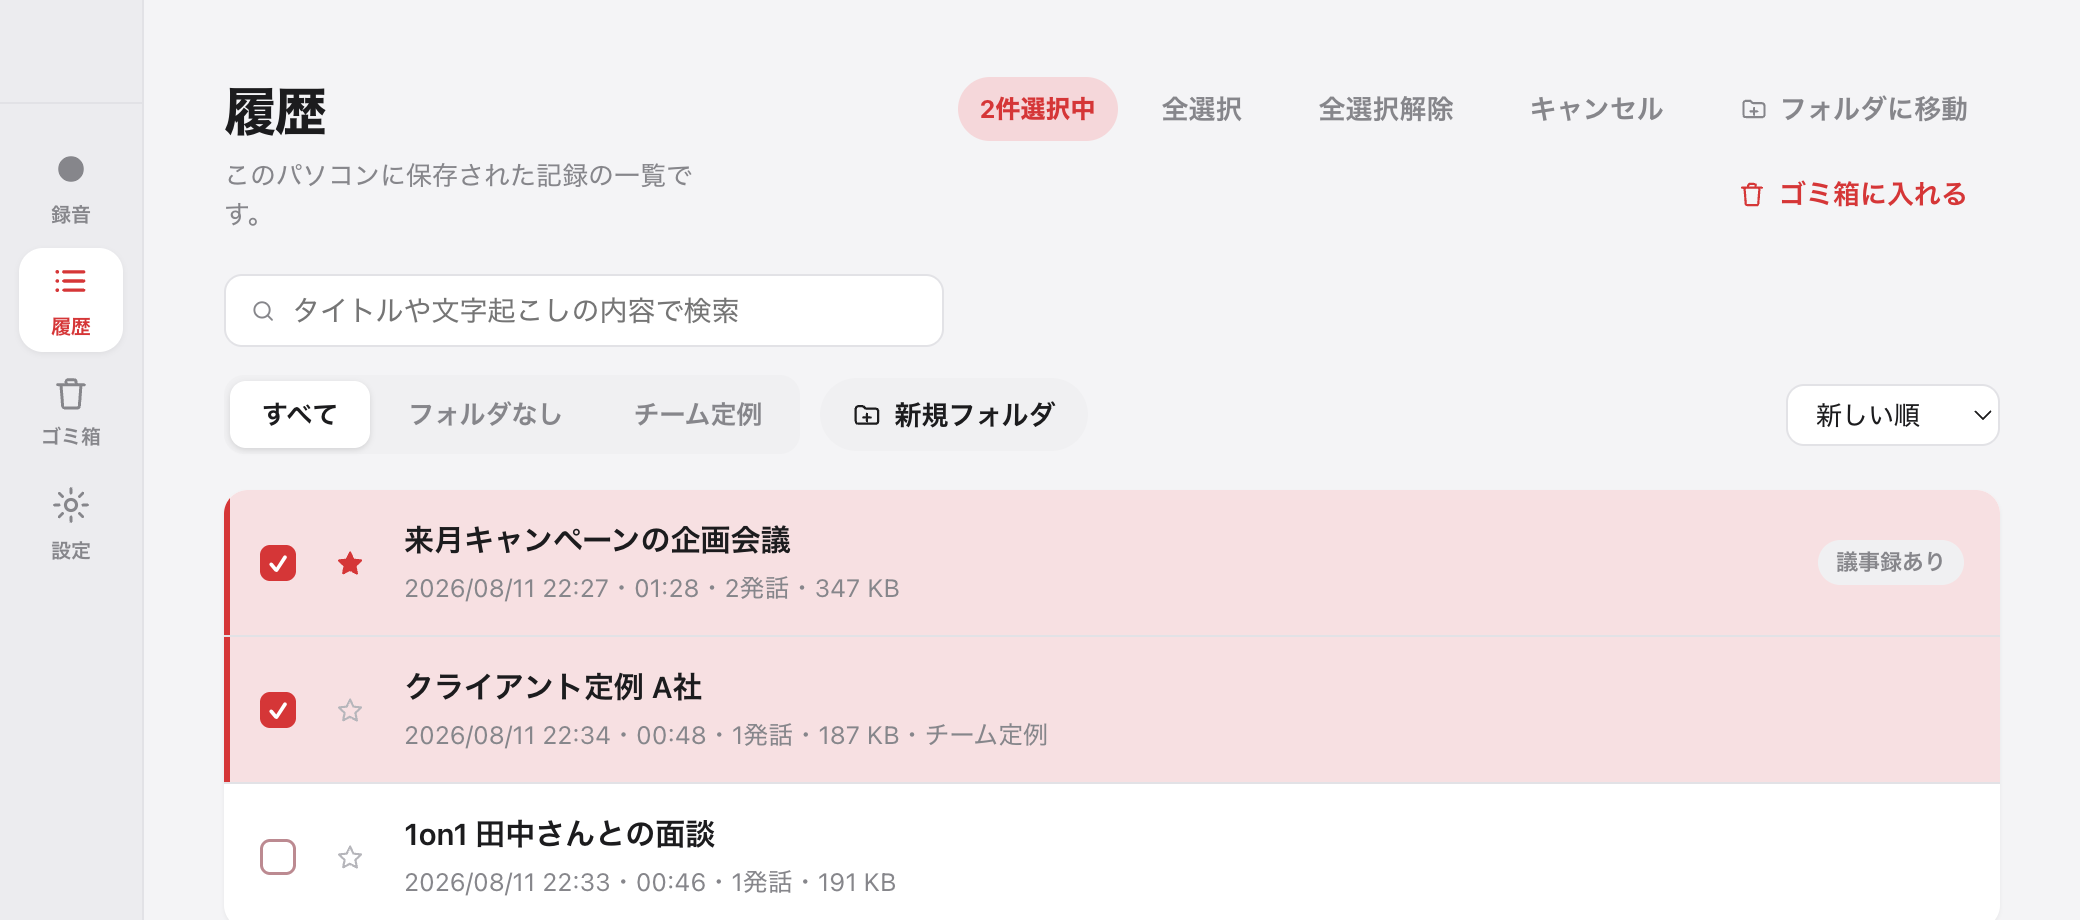
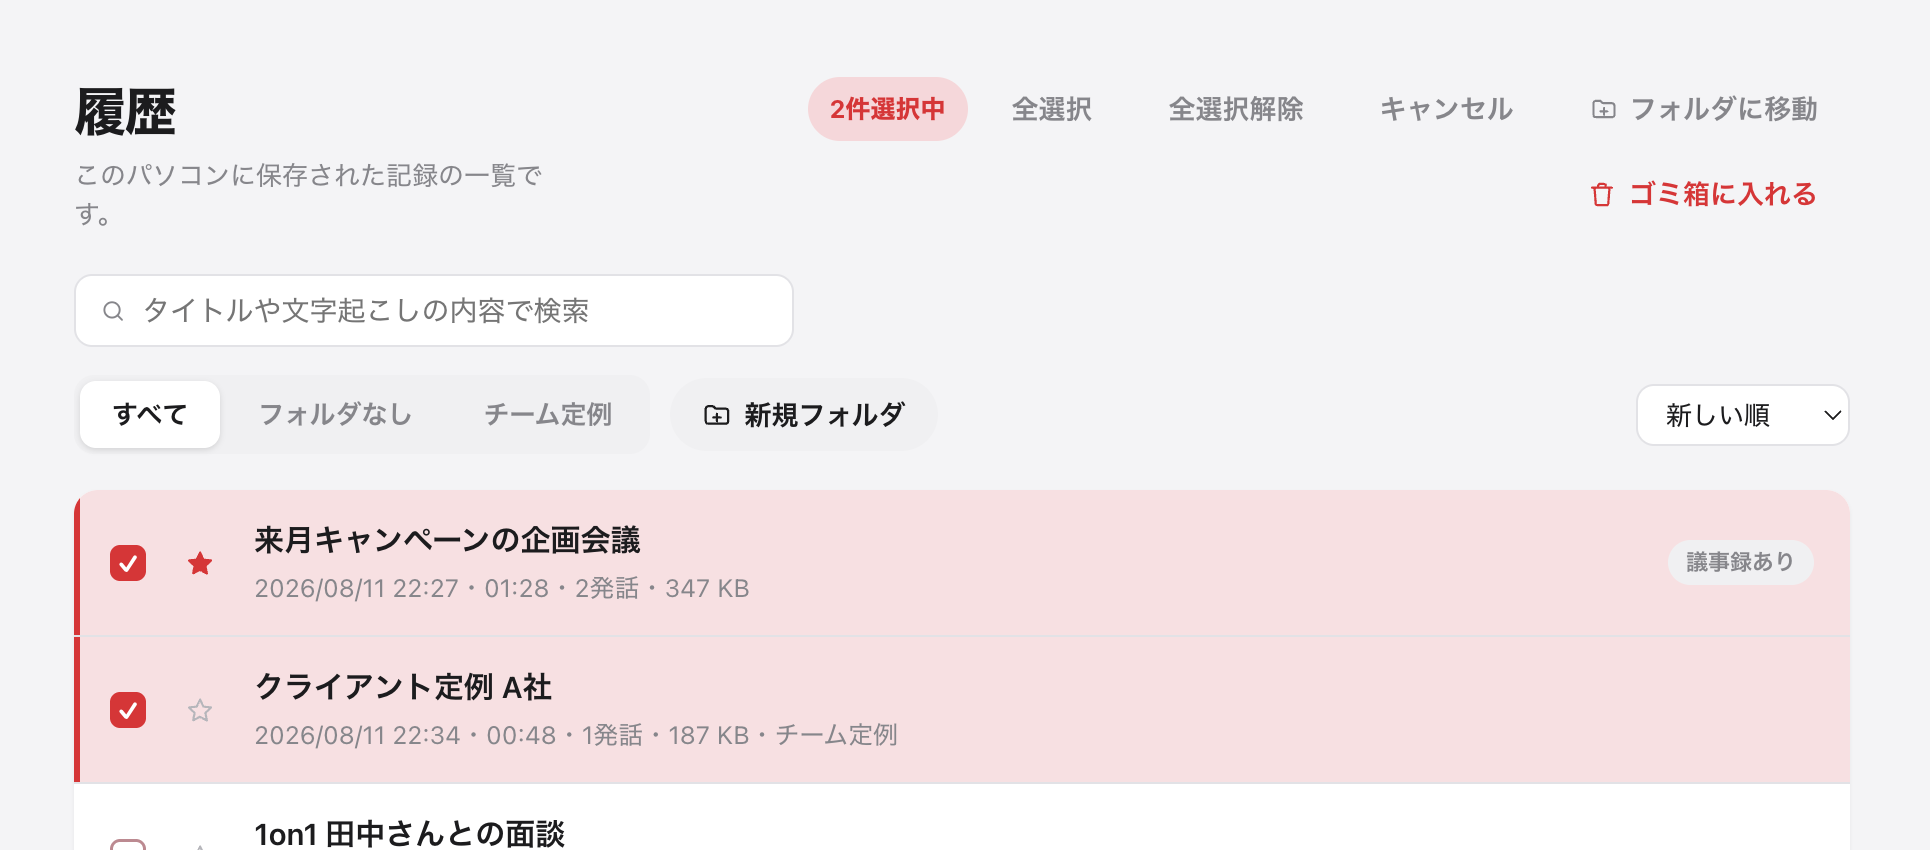
使い方ガイドのスクショ構図を修正、注目点を中央に
一部のスクリーンショットで、赤丸で示した注目ボタンが画像の端に
寄り、周囲に大きな余白ができていた（録音ボタン上部の空白、
マイク/停止ボタンが画像幅いっぱいの端に寄っていた等）。各画像を
該当UIに合わせて再クロップし、注目点が視覚的中心に来るよう調整。
Next/Imageに渡すwidth/heightも実ファイルの新しい寸法に合わせて修正。

diff --git a/app/guide/page.tsx b/app/guide/page.tsx
@@ -22,7 +22,7 @@ const steps: Step[] = [
     num: "1",
     title: "赤いボタンを押す",
     desc: "サイドバーの「録音」で、赤いボタンを押すだけで始まります。",
-    image: { src: "/guide/step-01-start.png", alt: "録音ボタンを押す", w: 2080, h: 900 },
+    image: { src: "/guide/step-01-start.png", alt: "録音ボタンを押す", w: 1943, h: 570 },
   },
   {
     num: "2",
@@ -35,25 +35,25 @@ const steps: Step[] = [
     num: "3",
     title: "話した内容が、その場で文字になる",
     desc: "マイクの声も、パソコンの音（通話・動画）も、区別しながらリアルタイムで表示されます。",
-    image: { src: "/guide/step-03-live.png", alt: "録音中のライブ文字起こし", w: 2080, h: 760 },
+    image: { src: "/guide/step-03-live.png", alt: "録音中のライブ文字起こし", w: 1930, h: 680 },
   },
   {
     num: "4",
     title: "音源はその場でオン/オフできる",
     desc: "マイクだけ、パソコンの音だけ、を録りたいときはワンクリックでミュートできます。",
-    image: { src: "/guide/step-04-mute.png", alt: "マイクをミュートする", w: 2080, h: 200 },
+    image: { src: "/guide/step-04-mute.png", alt: "マイクをミュートする", w: 1050, h: 200 },
   },
   {
     num: "5",
     title: "終わったら、停止するだけ",
     desc: "「停止」を押すと、あとは自動で保存・文字起こしまで進みます。",
-    image: { src: "/guide/step-05-stop.png", alt: "録音を停止する", w: 2080, h: 200 },
+    image: { src: "/guide/step-05-stop.png", alt: "録音を停止する", w: 600, h: 200 },
   },
   {
     num: "6",
     title: "「議事録を作成」で、AIがまとめる",
     desc: "決まったこと・やることを、AIが自動で整理します（無料でも毎月2件まで作成可）。",
-    image: { src: "/guide/step-06-create.png", alt: "議事録を作成ボタン", w: 2080, h: 320 },
+    image: { src: "/guide/step-06-create.png", alt: "議事録を作成ボタン", w: 700, h: 140 },
   },
   {
     num: "7",
@@ -65,13 +65,13 @@ const steps: Step[] = [
     num: "8",
     title: "履歴から、いつでも探せる",
     desc: "検索・お気に入り・フォルダ分けで、あとから見返しやすくなっています。",
-    image: { src: "/guide/step-08-history.png", alt: "履歴画面での検索とお気に入り", w: 2080, h: 920 },
+    image: { src: "/guide/step-08-history.png", alt: "履歴画面での検索とお気に入り", w: 1930, h: 850 },
   },
   {
     num: "9",
     title: "複数まとめて、フォルダ移動や削除も",
     desc: "「選択」でチェックを付けると、まとめてフォルダに移動したりゴミ箱に入れたりできます。",
-    image: { src: "/guide/step-09-select.png", alt: "複数選択して一括操作", w: 2080, h: 920 },
+    image: { src: "/guide/step-09-select.png", alt: "複数選択して一括操作", w: 1930, h: 850 },
   },
   {
     num: "10",
